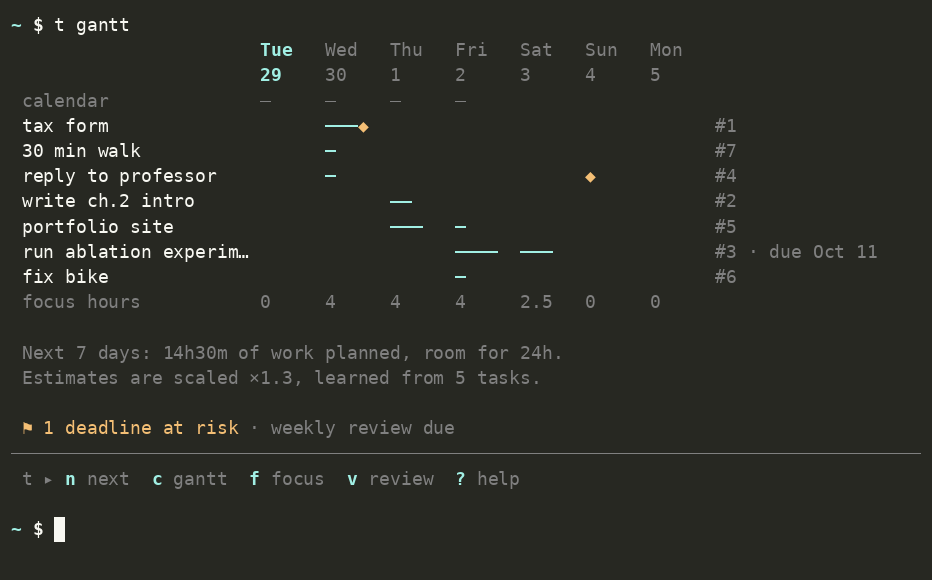
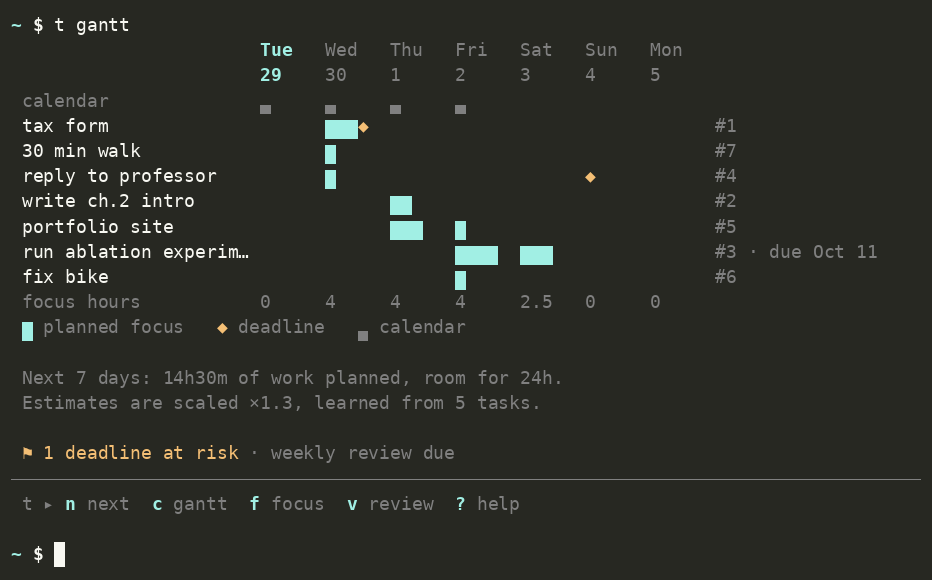
gantt: block bars with a legend

diff --git a/src/tend/views.py b/src/tend/views.py
@@ -98,7 +98,7 @@ def gantt(plan: Plan, days: int, today: date, hours_per_day: float, day_start, d
                     for e in plan.events if e.start.date() == d and e.end > datetime.combine(d, day_start)
                     and e.start < datetime.combine(d, day_end))
             n = round(h / window * (cell - 1)) if h > 0 else 0
-            busy.append(Text("─" * max(n, 1 if h > 0 else 0), DIM))
+            busy.append(Text("▃" * max(n, 1 if h > 0 else 0), DIM))
         console.print(Text(" " + "calendar".ljust(title_w), DIM) + cells(busy))
 
     order: list = []
@@ -111,7 +111,7 @@ def gantt(plan: Plan, days: int, today: date, hours_per_day: float, day_start, d
         for d in span:
             m = sum(b.minutes for b in plan.blocks if b.task.id == t.id and b.start.date() == d)
             n = max(1, round(m / (hours_per_day * 60) * (cell - 1))) if m > 0 else 0
-            v = Text("━" * n, color)
+            v = Text("▆" * n, color)
             if t.due == d:
                 v.append("◆", WARN)
             row.append(v)
@@ -127,6 +127,12 @@ def gantt(plan: Plan, days: int, today: date, hours_per_day: float, day_start, d
 
     totals = [Text(f"{sum(b.minutes for b in plan.on(d)) / 60:.1f}".rstrip("0").rstrip("."), DIM) for d in span]
     console.print(Text(" " + "focus hours".ljust(title_w), DIM) + cells(totals))
+    legend = Text.assemble(" ", ("▆", ACCENT), (" planned focus   ", DIM), ("◆", WARN), (" deadline", DIM))
+    if plan.late:
+        legend.append_text(Text.assemble("   ", ("▆", WARN), (" late task", DIM)))
+    if plan.events:
+        legend.append_text(Text.assemble("   ", ("▃", DIM), (" calendar", DIM)))
+    console.print(legend)
 
 
 def to_ics(plan: Plan) -> str:
